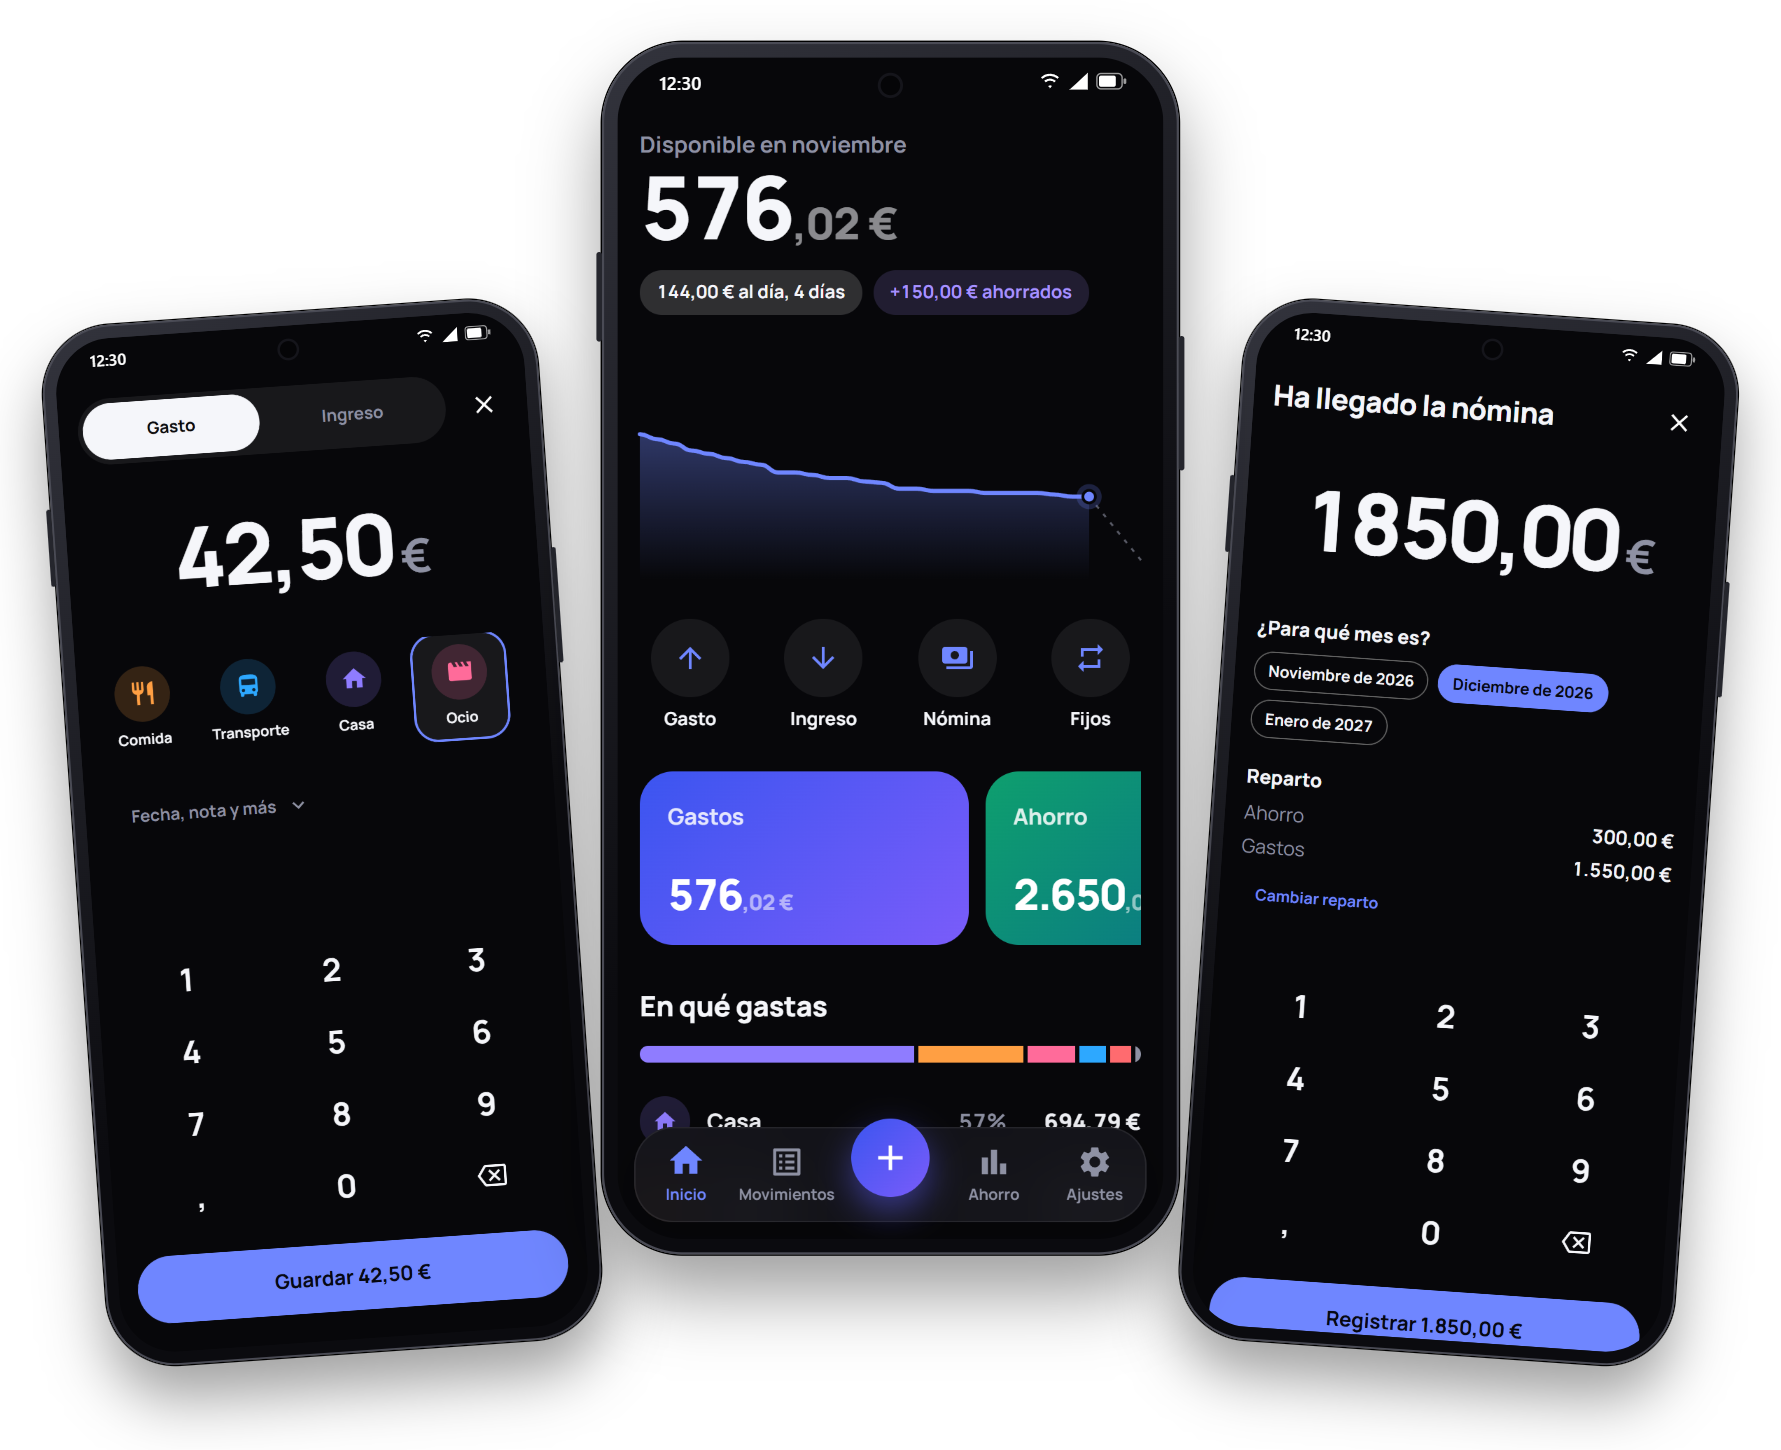
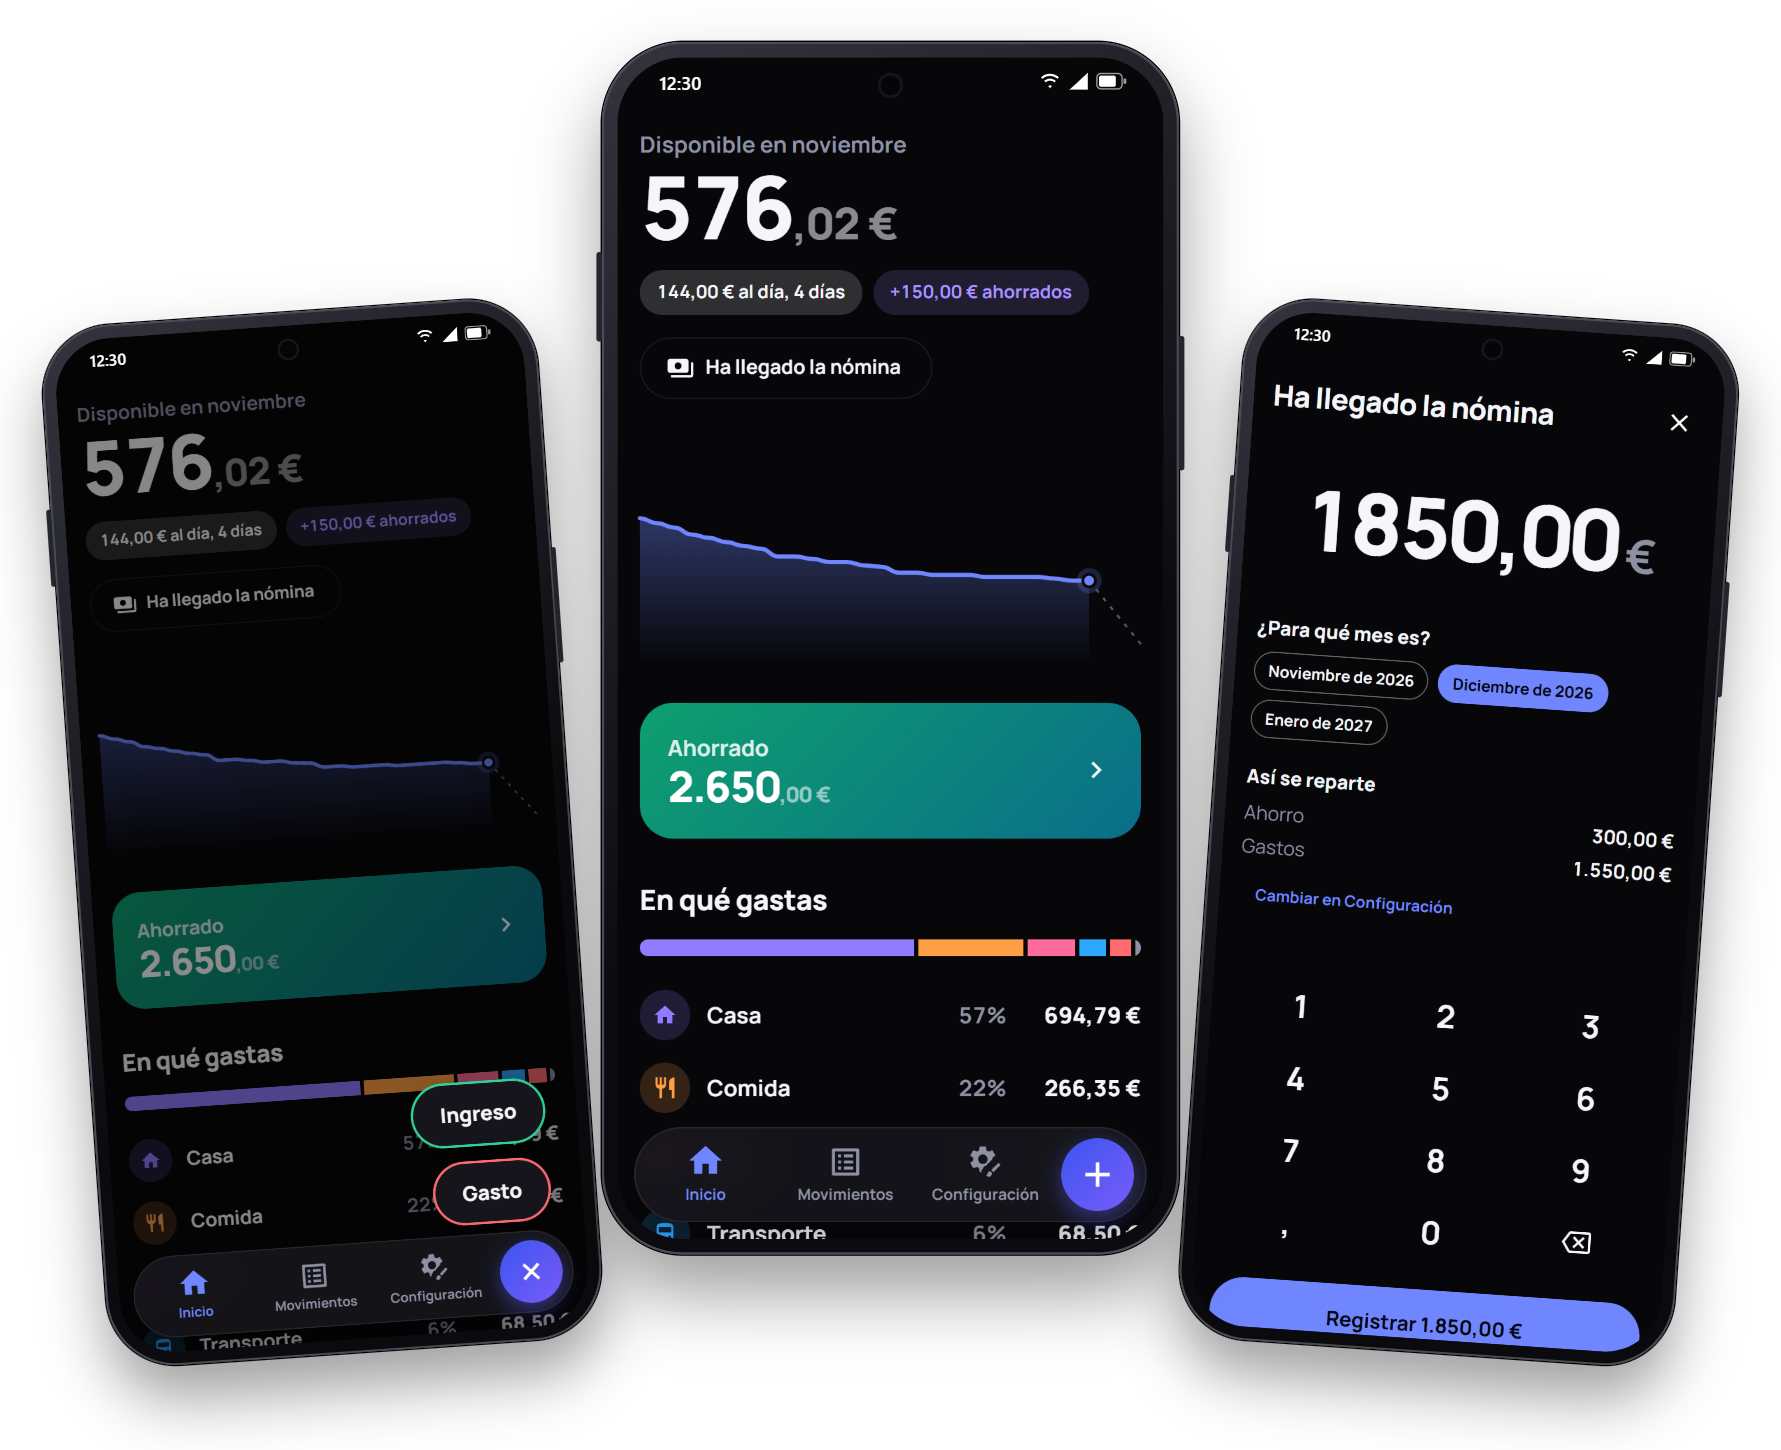
docs: refresh screenshots, hero, demo GIF and social preview for the new navigation

diff --git a/README.md b/README.md
@@ -20,7 +20,7 @@ La app **no tiene permiso de internet**: no puede enviar nada a ningún sitio.
 
 <br>
 
-<img src="docs/screenshots/hero.png" width="760" alt="Holgura en tres pantallas: añadir un gasto, el inicio con el dinero disponible y el registro de la nómina">
+<img src="docs/screenshots/hero.png" width="760" alt="Holgura en tres pantallas: el menú para añadir un gasto o un ingreso, el inicio con el dinero disponible y el registro de la nómina">
 
 </div>
 
@@ -40,13 +40,14 @@ La app **no tiene permiso de internet**: no puede enviar nada a ningún sitio.
 ### Así se apunta un gasto
 
 <p align="center">
-  <img src="docs/screenshots/demo.gif" width="300" alt="Animación: se teclea 42,50 €, se elige la categoría Ocio y se guarda; el dinero disponible baja">
+  <img src="docs/screenshots/demo.gif" width="300" alt="Animación: se toca el botón de añadir, se elige Gasto, se teclea 42,50 €, se elige la categoría Ocio y se guarda; el dinero disponible baja">
 </p>
 
 <details>
 <summary>Más capturas</summary>
 <br>
 <p align="center">
+  <img src="docs/screenshots/menu-oscuro.png" width="220" alt="Menú para añadir un gasto (borde rojo) o un ingreso (borde verde)">
   <img src="docs/screenshots/movimientos-oscuro.png" width="220" alt="Movimientos del mes agrupados por día">
   <img src="docs/screenshots/ahorro-oscuro.png" width="220" alt="Histórico de ahorro mes a mes">
   <img src="docs/screenshots/fijos-oscuro.png" width="220" alt="Gastos fijos con interruptor para pausarlos">
